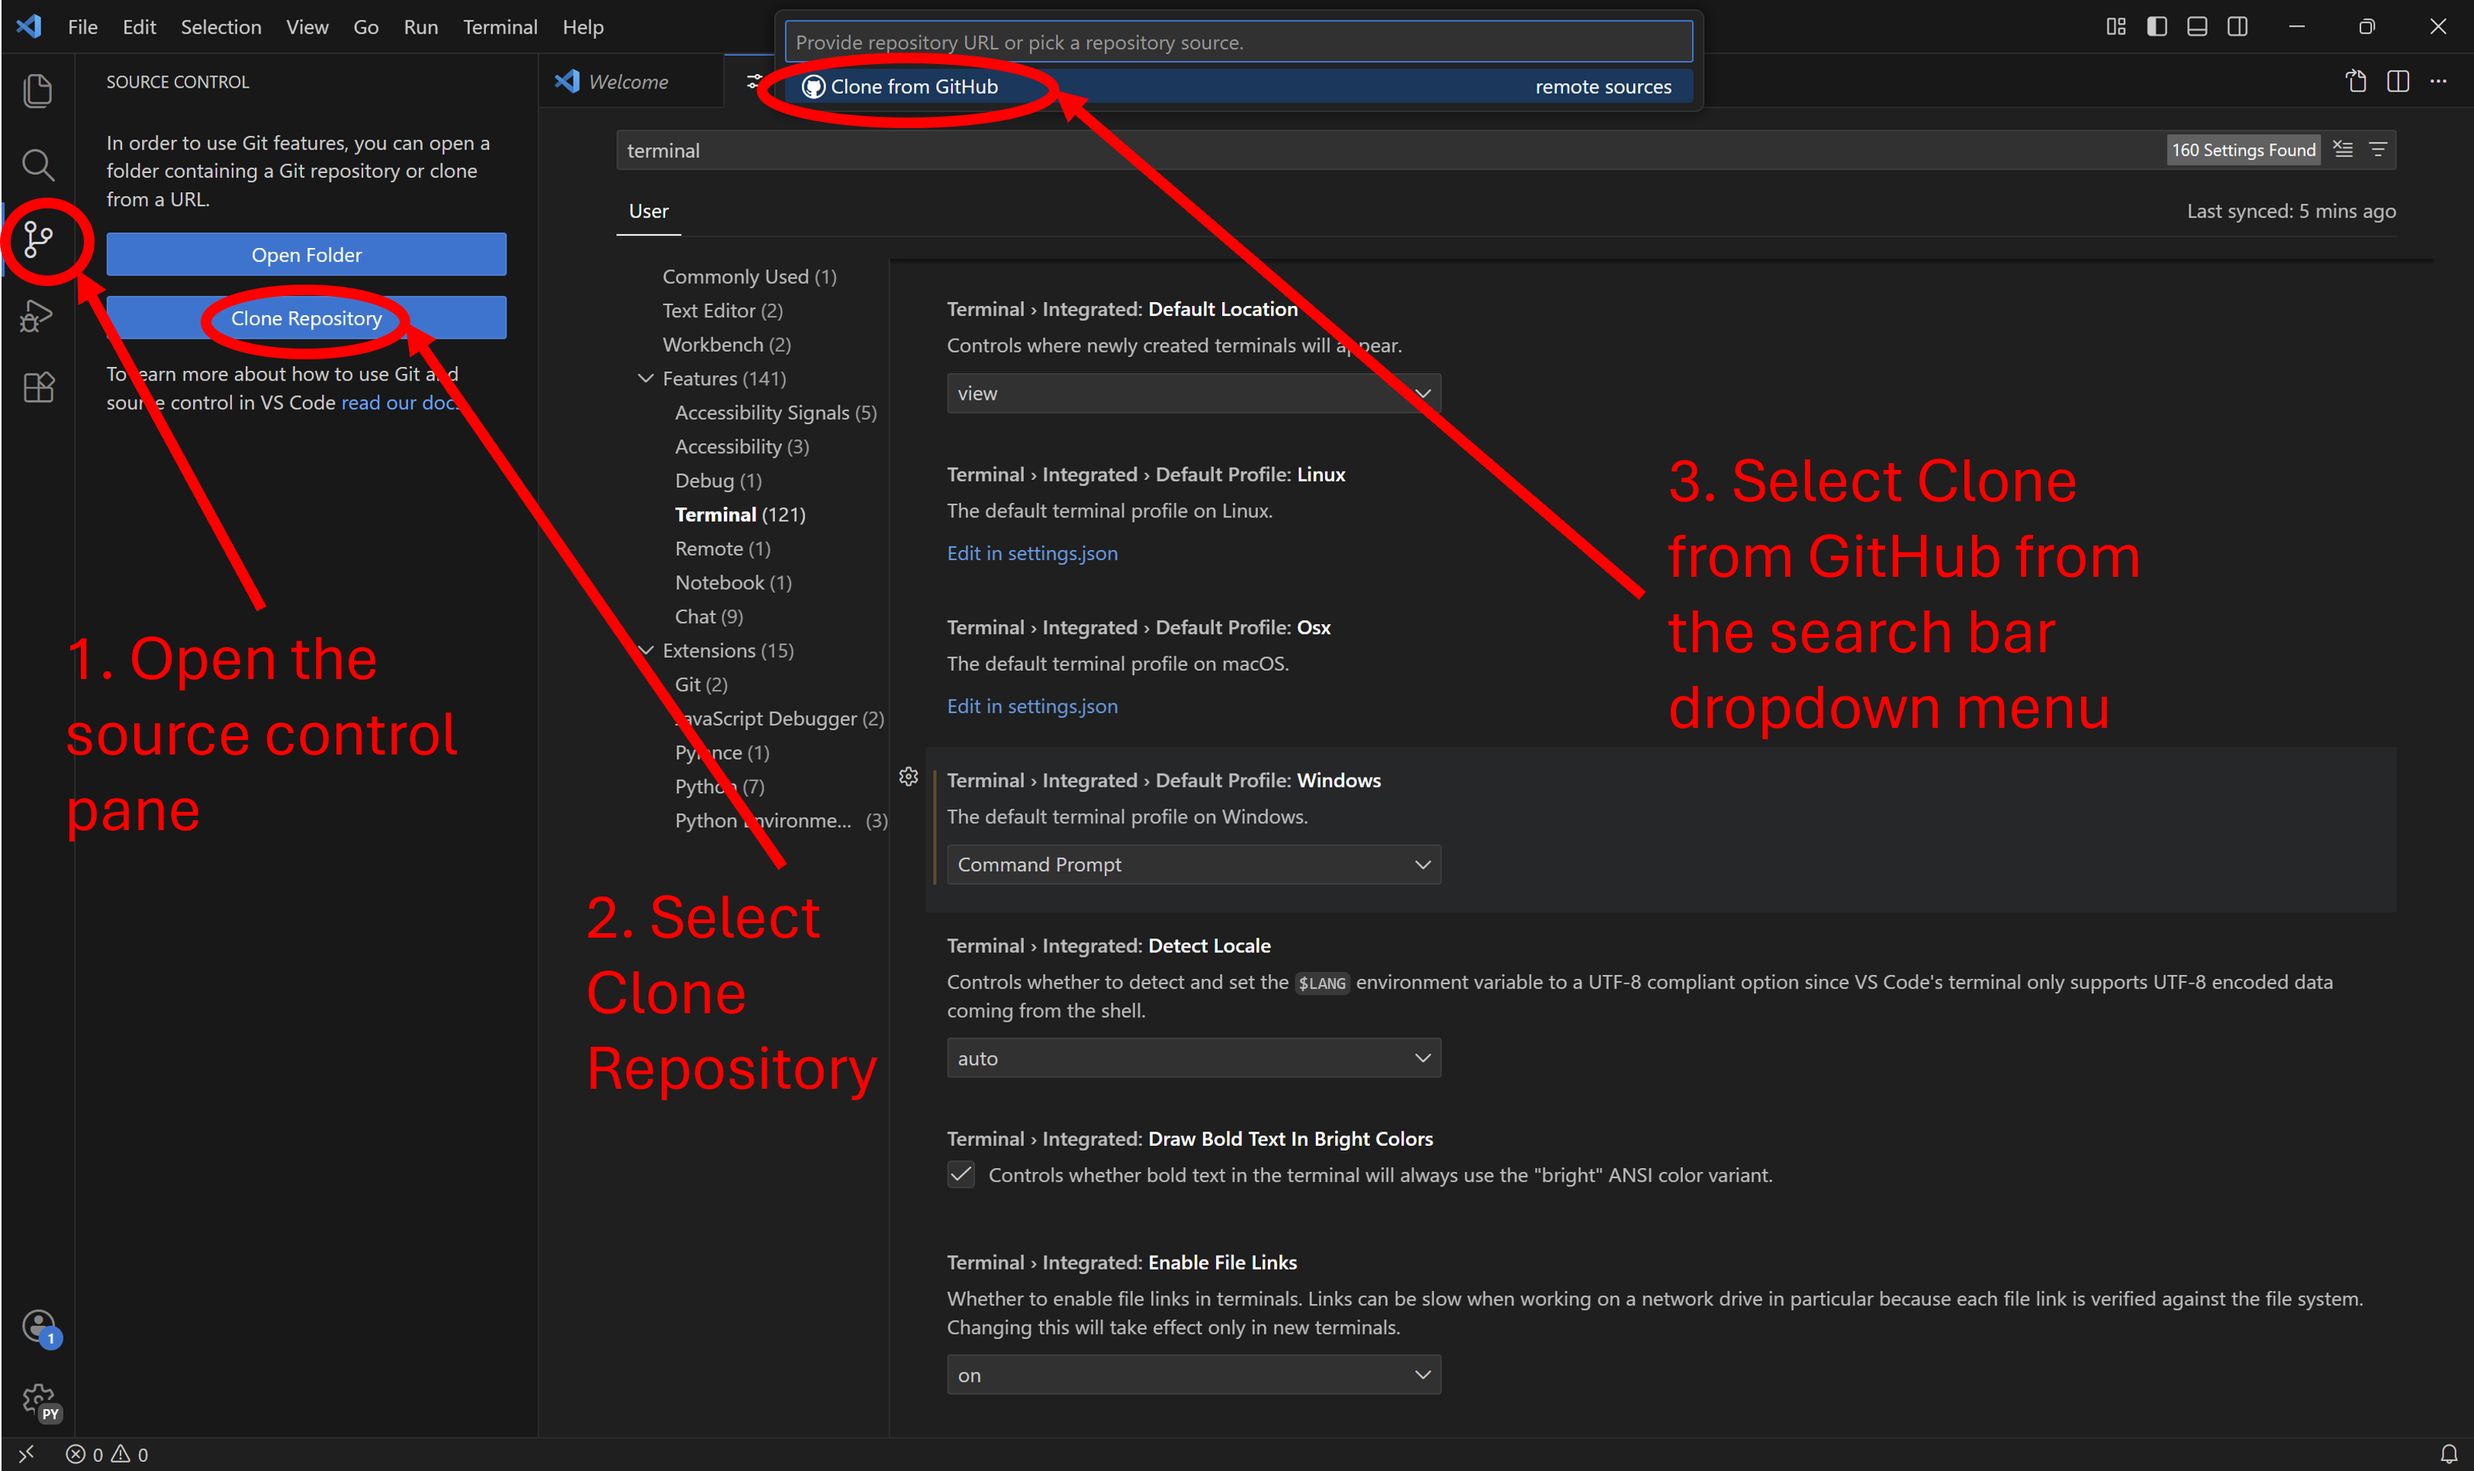
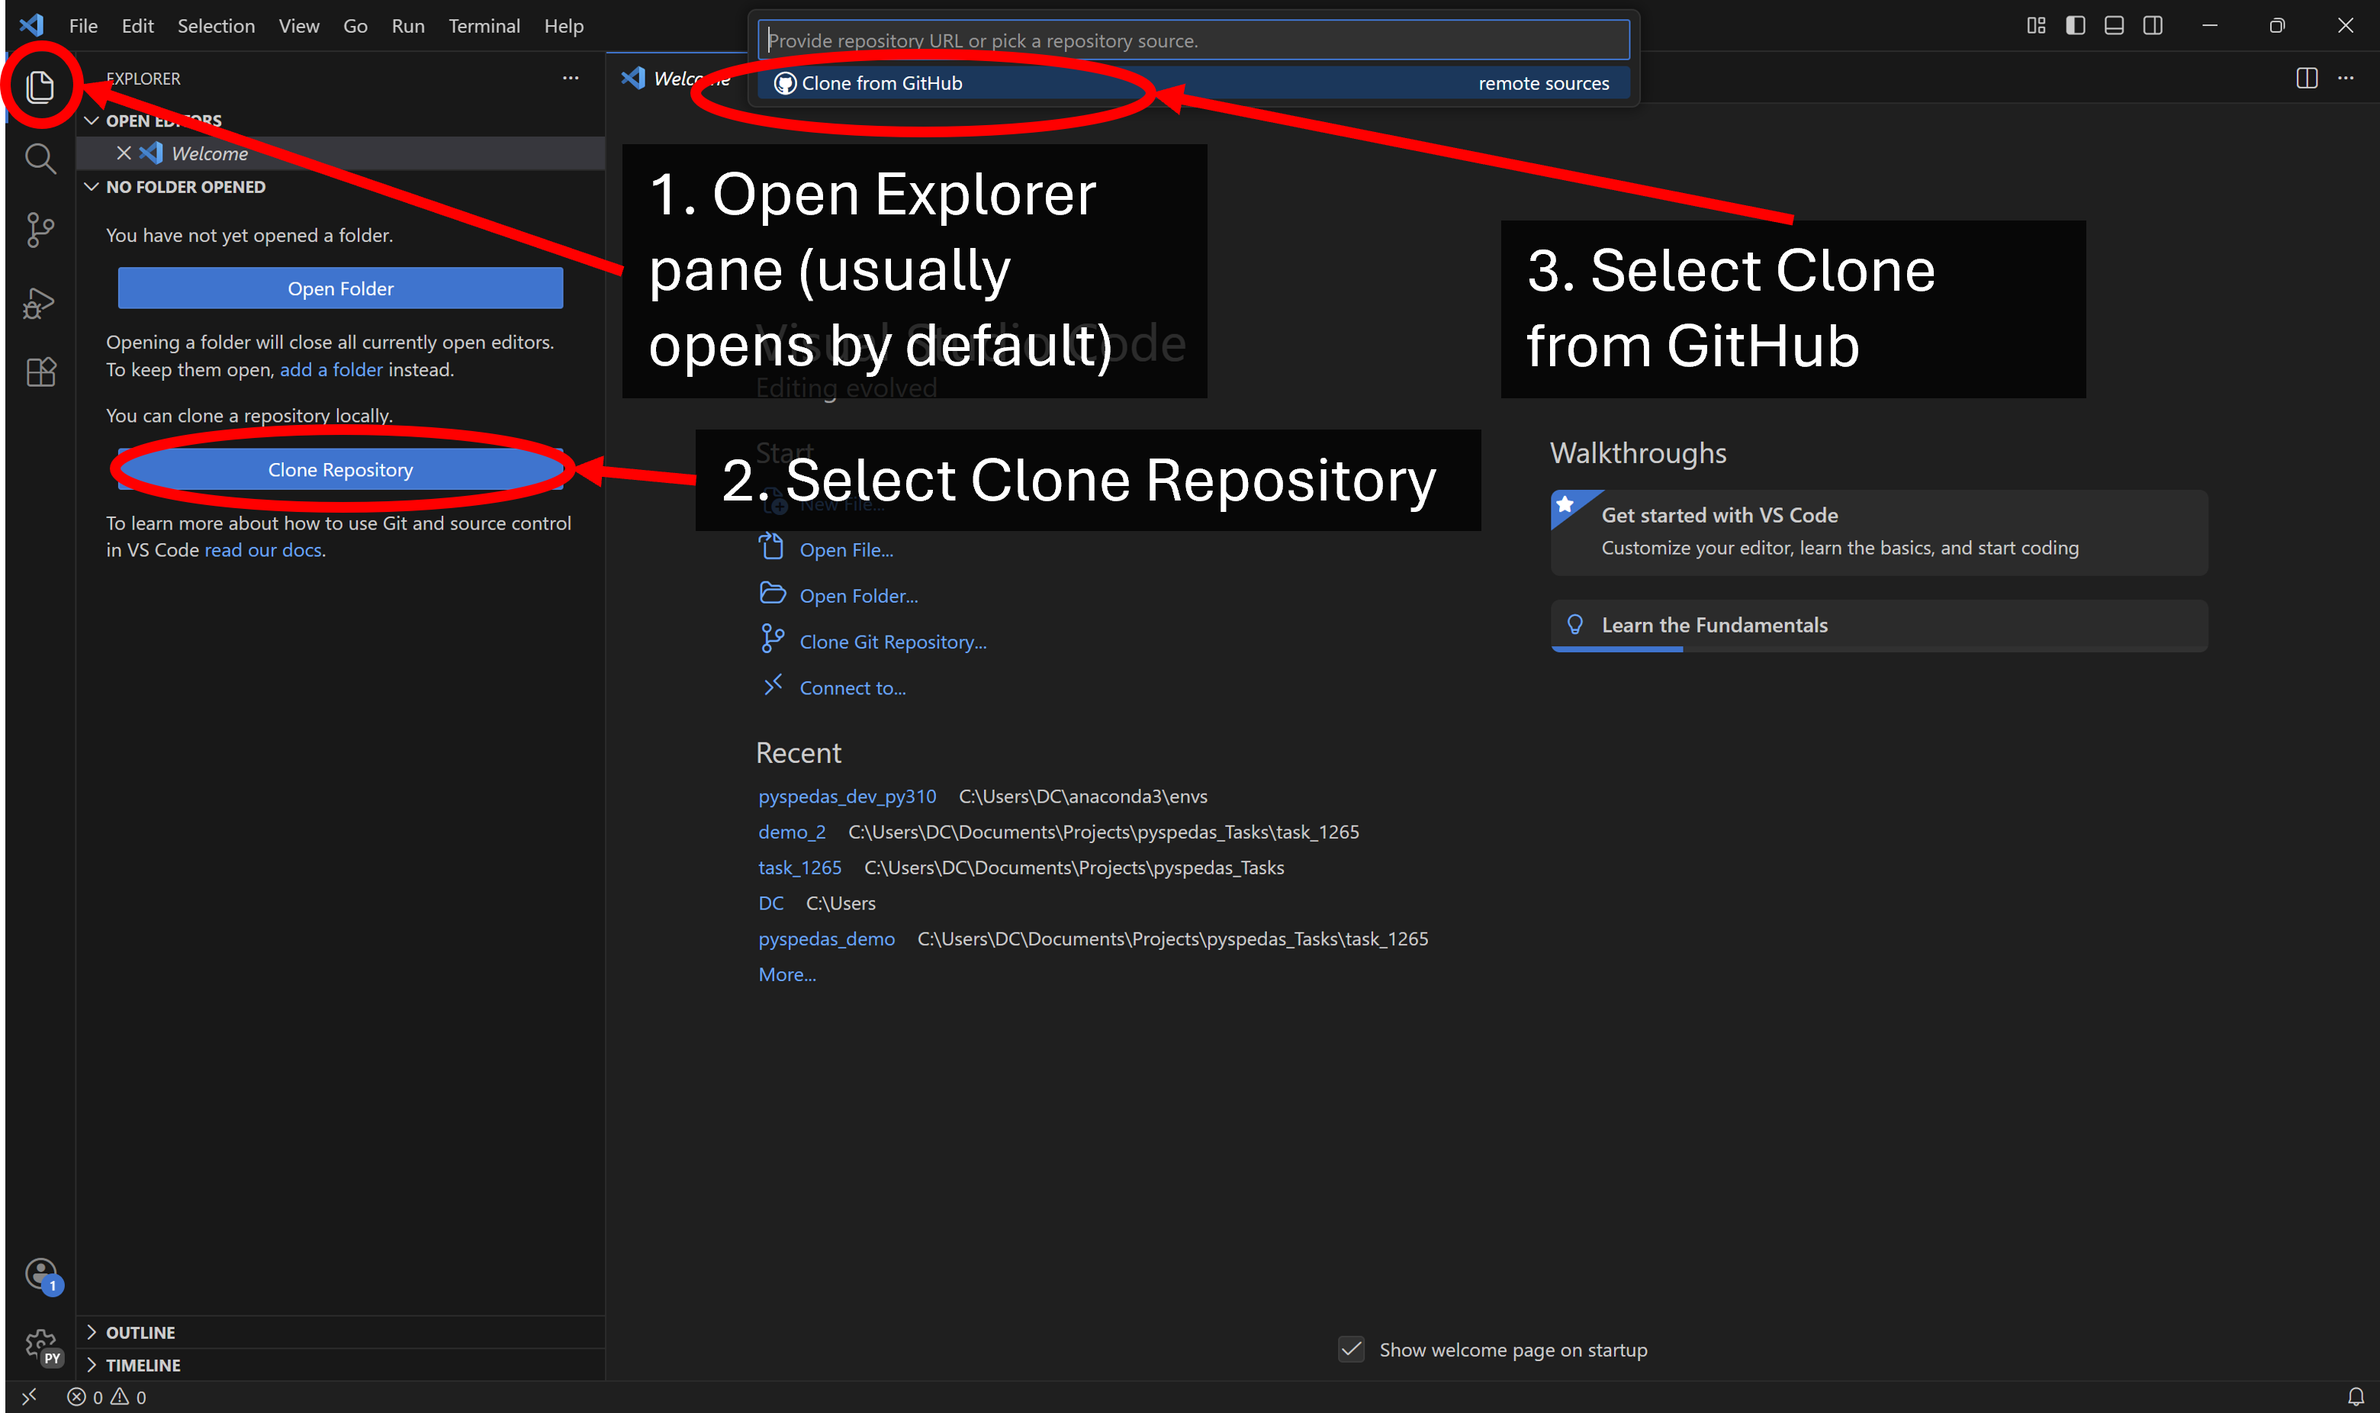
Revised VS Code PySPEDAS dev guide to use Venv.

diff --git a/docs/source/dev_vscode.rst b/docs/source/dev_vscode.rst
@@ -2,54 +2,56 @@
 .. _dev-vscode:
 
 Setting up a Visual Studio (VS) Code development environment for PySPEDAS
-==========================================================
+=========================================================================
 
-Install  VS Code
+This guide will describe the process for setting up VS Code to clone PySPEDAS from GitHub and create a developement environment for it. These instructions assume you're working in a Windows operating system.
+
+Install Python Executable
+-------------------------
+
+If a Python executable has not already been installed, the following command can be run on Windows Command Prompt:
+
+.. code-block:: bash
+
+    winget install python.python.3.10
+
+Where the decimals values indicate the Python version desired. If no other arguments are set, the executable can be located at %appdata%, under C:\\Users\\YourUsername\\AppData\\Local\\Programs\\Python\\Python310 (in this case).
+
+Install VS Code
 ---------------
 
 If you don't already have it, download and install the VS Code Interactive Development Environment (IDE).  It can be downloaded from the VS Code website: https://code.visualstudio.com/download .
 
-Change Default terminal
------------------------
+Clone PySPEDAS from GitHub
+--------------------------
 
-Open the Settings page by clicking the gear icon in the bottom-left of the window and by choosing Settings from the menu. Alternatively, you can use the keyboard shortcut (Ctrl+,)
-
-.. image:: _static/vscode_opensettings.png
-   :align: center
-   :class: imgborder
-
-In the Settings page, search 'terminal' in the Settings search bar, click to jump to the Terminal section of the settings, and scroll down the setting Terminal > Integrated > Default Profile: Windows. In the dropdown menu, choose Command Prompt.
-
-.. image:: _static/vscode_setterm.png
-   :align: center
-   :class: imgborder
-
-Connect VS Code to your GitHub Account and Clone PySPEDAS
---------------------------------------
-
-Open the Source Control panel (Ctrl+Shift+G) and select Clone Repository. In the search bar, select "Clone from Github". Alternatively, you could type "Git: Clone" in the Command Pallette (Ctrl+Shift+P). 
+When a VS Code window is opened for the first time under a new profile, the Explorer pane should already be open. Since a folder hasn't been selected yet, there should be an option to Clone Repository. Click this and select Clone from GitHub. Alternatively, this can be done from the Source Control pane (Ctrl+Shift+G), or by typing "Git: Clone" in the Command Pallette (Ctrl+Shift+P).
 
 .. image:: _static/vscode_initiateclone.png
    :align: center
    :class: imgborder
 
+Follow the prompts to sign in, select, and authorize access to a GitHub account where PySPEDAS or a PySPEDAS fork could be accessed from.
 
-A dialogue box will show the prompt: “The extension 'GitHub' wants to sign in using GitHub”. Click Allow to continue. A web browser window will open allowing you to select or sign in to a GitHub account. Follow the prompts to continue with your GitHub account
-
-.. image:: _static/vscode_authorize.png
-   :align: center
-   :class: imgborder
-
-After GitHub has been authorized, return to the VS Code window, and search/select the spedas/pyspedas repository (PySPEDAS team members) or your personal fork of the repo (outside contributors). You'll then be prompted with a file explorer window to select a folder to serve as the repository destination.
+After GitHub has been authorized, return to the VS Code window, and search or select the spedas/pyspedas repository (PySPEDAS team members) or your personal fork of the repo (outside contributors). You'll then be prompted with a file explorer window to select a folder to serve as the repository destination.
 
 .. image:: _static/vscode_chooserepo.png
    :align: center
    :class: imgborder
 
-A dialogue box will then ask if you would like to open the repository. Click Open, and a dropdown for the repo folder will be opened in the Explorer pane. In the bottom left, you should see the Source Control pane icon, accompanied by the name of the branch you're currently working in. Clicking this branch name will open a dropdown menu allowing you to select/create branches.
+A dialogue box will then ask if you would like to open the repository. Click Open, and a dropdown for the repo folder will be opened in the Explorer pane. Once pyspedas has been selected, you'll be prompted to open the repository in the current window. Click yes, and the Explorer pane will now show a listed view of the pyspedas files. In the bottom left, you should see the Source Control pane icon, accompanied by the name of the branch you're currently working in. Clicking this branch name will open a dropdown menu allowing you to select/create branches, if so desired.
 
-Choose Interpreter and Open Terminal in Conda Environment
----------------------------------------------------------
+Install VS Code Python Extension
+--------------------------------
+
+Open the Extensions pane (Ctrl+Shift+X), and locate the Python extension. It's usually one of the top recommendeed extensions, but it can be located using the search bar at the top of the Extensions pane. Click on its extension entry and click install. 
+
+.. image:: _static/vscode_installext.png
+   :align: center
+   :class: imgborder
+
+Create Virtual Environment (Venv) and Set Interpreter
+-----------------------------------------------------
 
 In the search bar, select or type Show and Run Commands, or use the keyboard shortcut (Ctrl+Shift+P). 
 
@@ -63,46 +65,52 @@ Then, search or choose "Python: Select Interpreter".
    :align: center
    :class: imgborder
 
-A list of environments should appear in the dropdown menu. Virtual Environments could also be created here, or an interpreter path can be selected using a File Explorer window. Choose the conda environment you created previously. 
+A list of interpreters will then be displayed. Select Create Virtual Environment.
 
-.. image:: _static/vscode_chooseenv.png
+.. image:: _static/vscode_createenv.png
    :align: center
    :class: imgborder
 
-Install and configure pdm and uv
---------------------------------
+A list should then show two options: Venv (virtual environment) or Conda (conda environment). Click Venv.
 
-In the Terminal tab at the top of the window, select New Terminal, or use the keyboard shortcut (Ctrl+Shift+`).
+.. image:: _static/vscode_choosevenv.png
+   :align: center
+   :class: imgborder
+
+A list of python.exe paths will then be displayed, along with their full paths to their installations. Select the desired python version (in this case, 3.10.11).
+
+.. image:: _static/vscode_choosepy.png
+   :align: center
+   :class: imgborder
+
+The dropdown menu will then provide options for installing dependancies. For now, skip this first page by clicking OK.
+
+.. image:: _static/vscode_skip.png
+   :align: center
+   :class: imgborder
+
+The dropdown menu should then give the option to install docs\requirements.txt from the PySPEDAS project directory. Check this box, then proceed by clicking OK. The Venv will then be created in the project directory, and should be set by the interpreter by default. If restarting the session, the Venv interpreter can be selected by opening the Command Pallette (Ctrl+Shift+P), clicking Python: Select Interpreter, and selecting the Venv in the dropdown list (it should be the recommended interpreter). With the Venv created and the interpreter set, open a the terminal pane by clicking the Terminal tab at the top of the window  and clicking New Terminal. Alternatively, the terminal pane can be opened using the keyboard shortcut (Ctrl+Shift+`). 
 
 .. image:: _static/vscode_openterminal.png
    :align: center
    :class: imgborder
 
-This will open the Terminal pane, using the Command Prompt terminal due to the setting change made earlier. The conda terminal and the environment made previously will be activated automatically, because the conda env was chosen as the interpreter. Here is where the commnands to install packages to the environment will be used.
+With the terminal pane opened, a powershell terminal should be loaded, and the Venv should be activated automatically. This is where the following packages will be installed.
 
 .. image:: _static/vscode_terminalpane.png
    :align: center
    :class: imgborder
 
-Next, you'll need to install some development tools to manage your PySPEDAS project.
+Install Dependencies
+--------------------------------
 
-PySPEDAS uses the pdm package management tool to manage the pyspedas environment.  We also recommend using 'uv' to install dependencies.  Your new Conda environment should already have 'pip' installed, so we'll use pip to install pdm and uv. Open a terminal window and run the following pip commands:
+PySPEDAS uses the pdm package management tool to manage the pyspedas environment.  In the terminal pane, us pip to install pdm to the Venv: 
 
 .. code-block:: bash
 
     pip install pdm
-    pip install uv
-
-Follow any prompts which might appear in the terminal pane, and after successfully installing pdm and uv, configure pdm to use uv:
-
-.. code-block:: bash
-
-    pdm config use_uv true
-
-Install PySPEDAS dependencies and developer tools
--------------------------------------------------
-
-Now you are ready to install the dependencies needed for PySPEDAS.  Do this in the terminal window with:
+    
+Then pdm sync can be used to make sure all the dependencies are downloaded or up to date:
 
 .. code-block:: bash
 
@@ -111,12 +119,11 @@ Now you are ready to install the dependencies needed for PySPEDAS.  Do this in t
 This should install all the runtime, optional, and development dependencies.
 
 If any package dependencies failed to install cleanly with 'pdm sync', you may need to install
-them with conda instead.  This is rare on Linux or Windows, but may happen on Mac, depending on what MacOS and
-Python versions you're using.  For any packages that failed to install, try installing them with conda instead:
+them directly using pip.
 
 .. code-block:: bash
 
-    conda install -c conda-forge netcdf4
+    pip install astropy
 
 
 Repeat for each package that failed to install.  Then try 'pdm sync' again to see if any other installation failures occurred.
